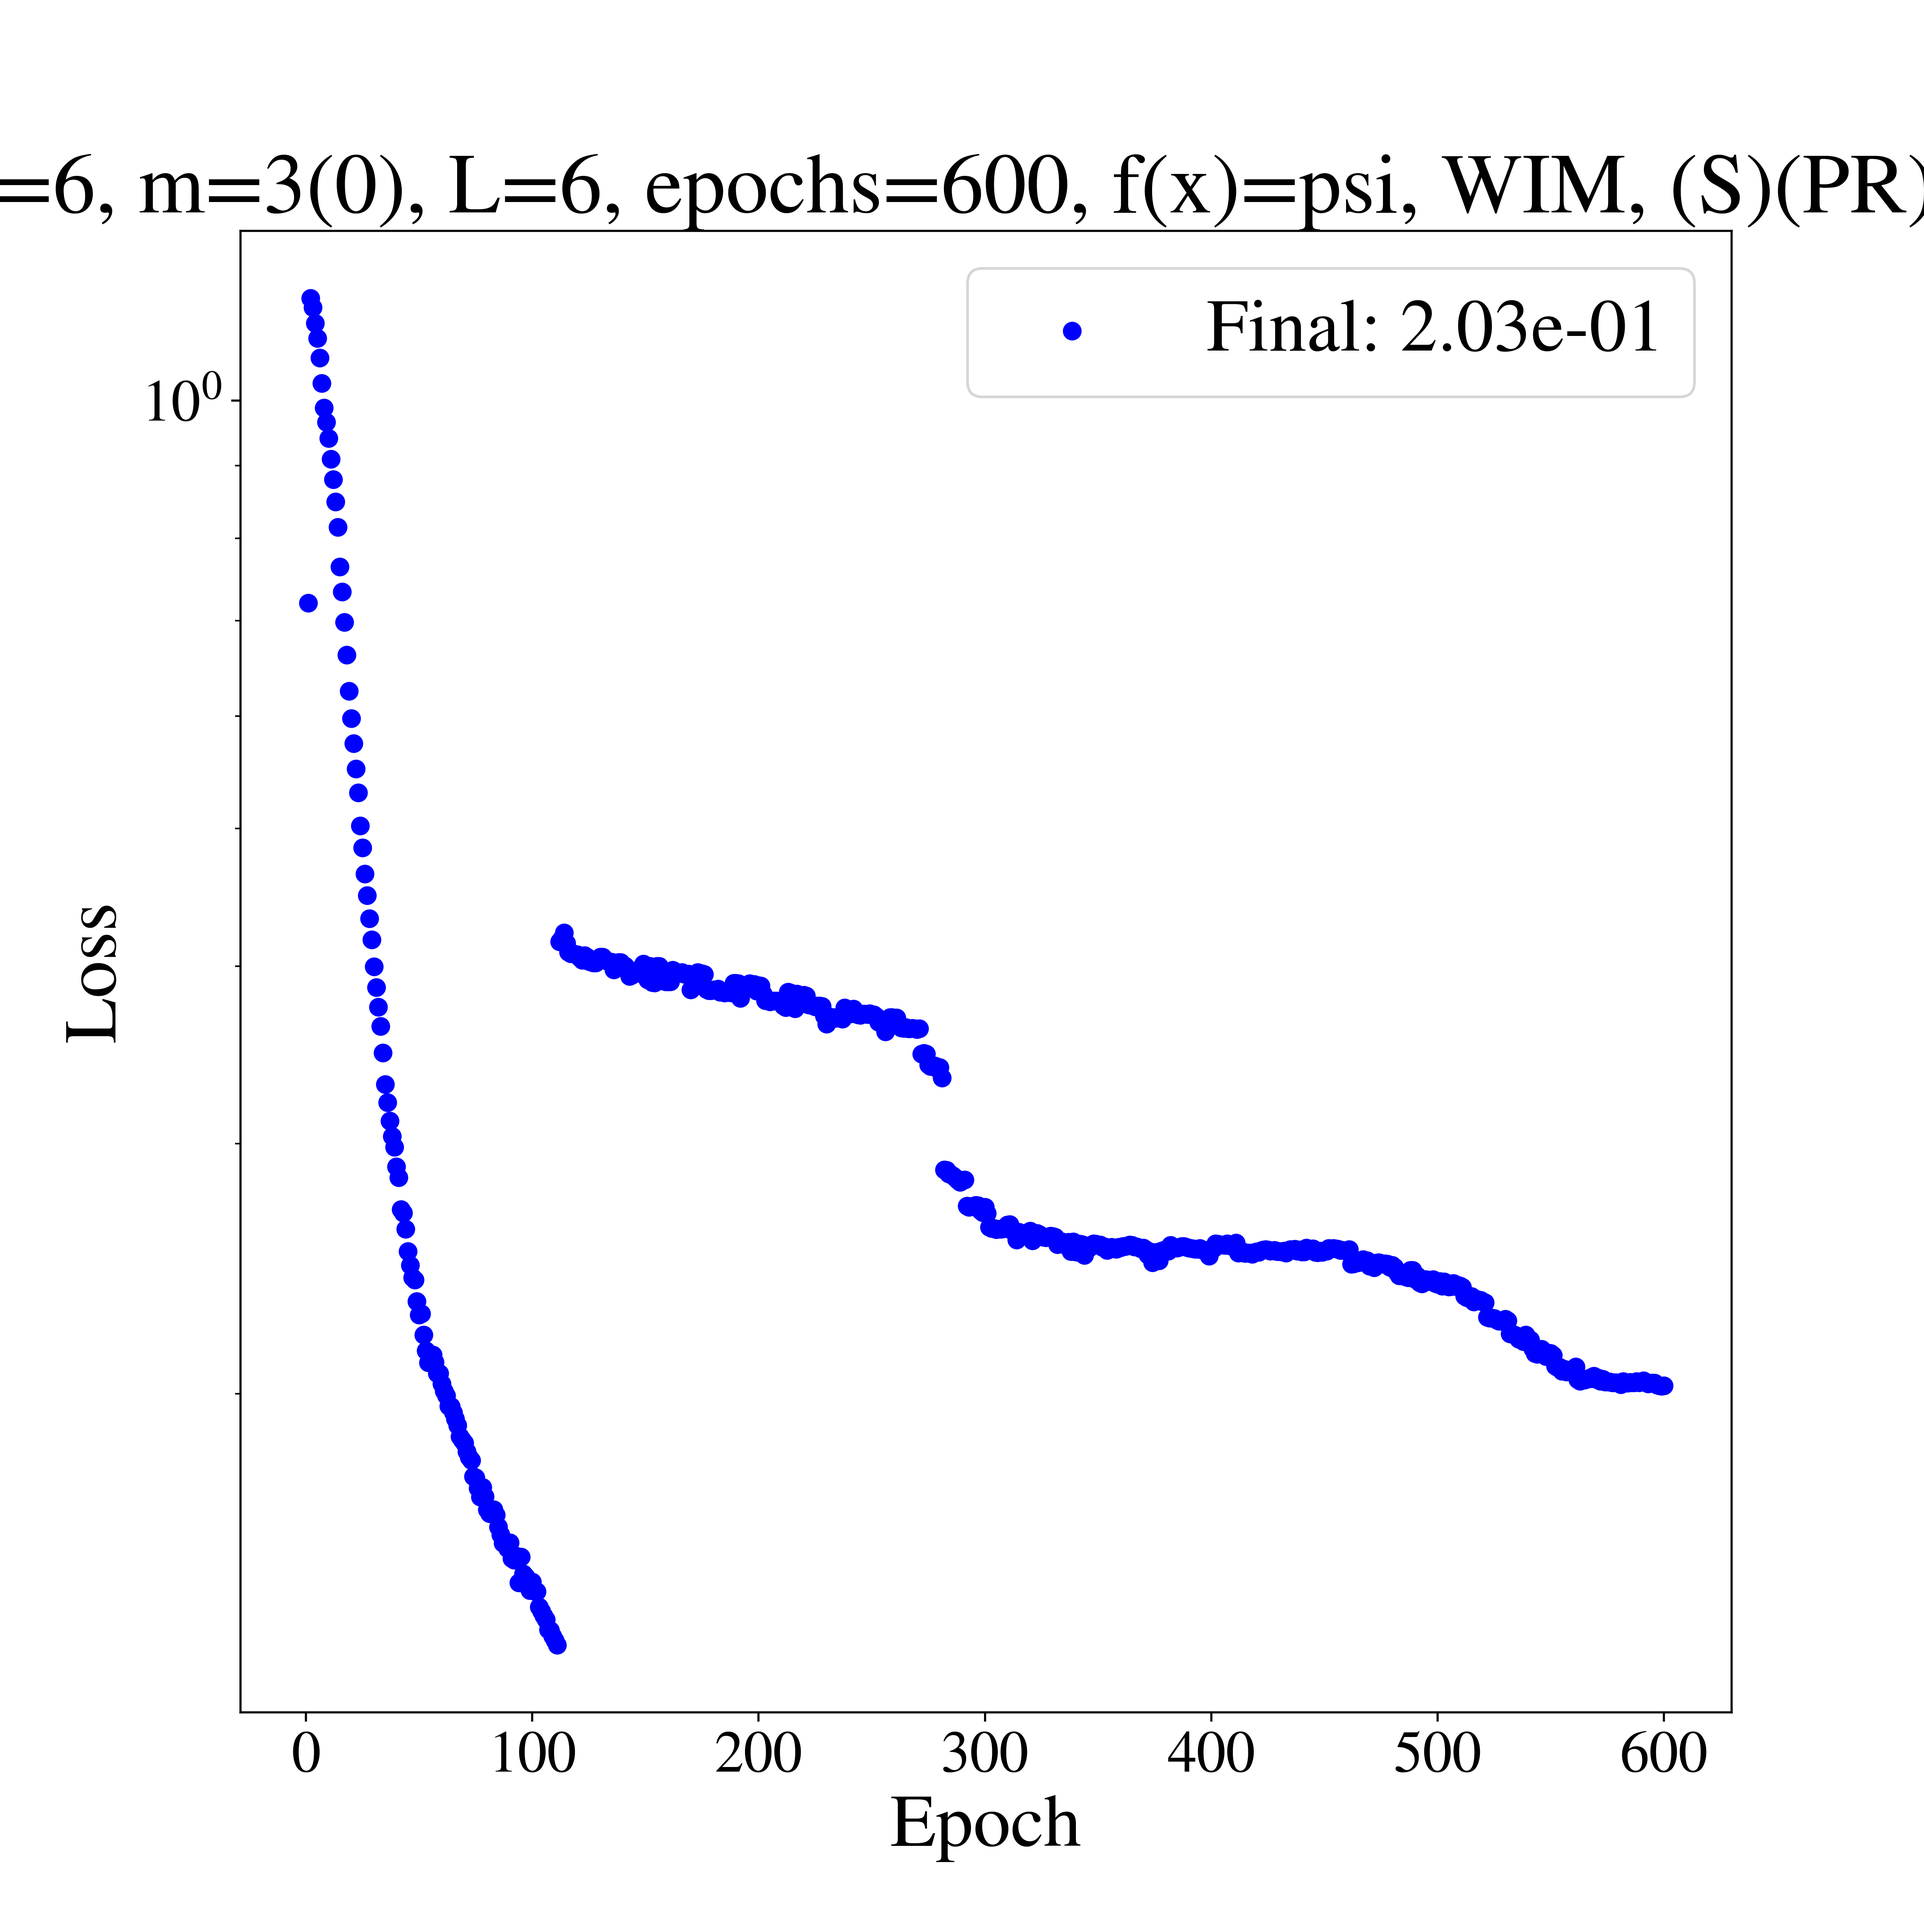
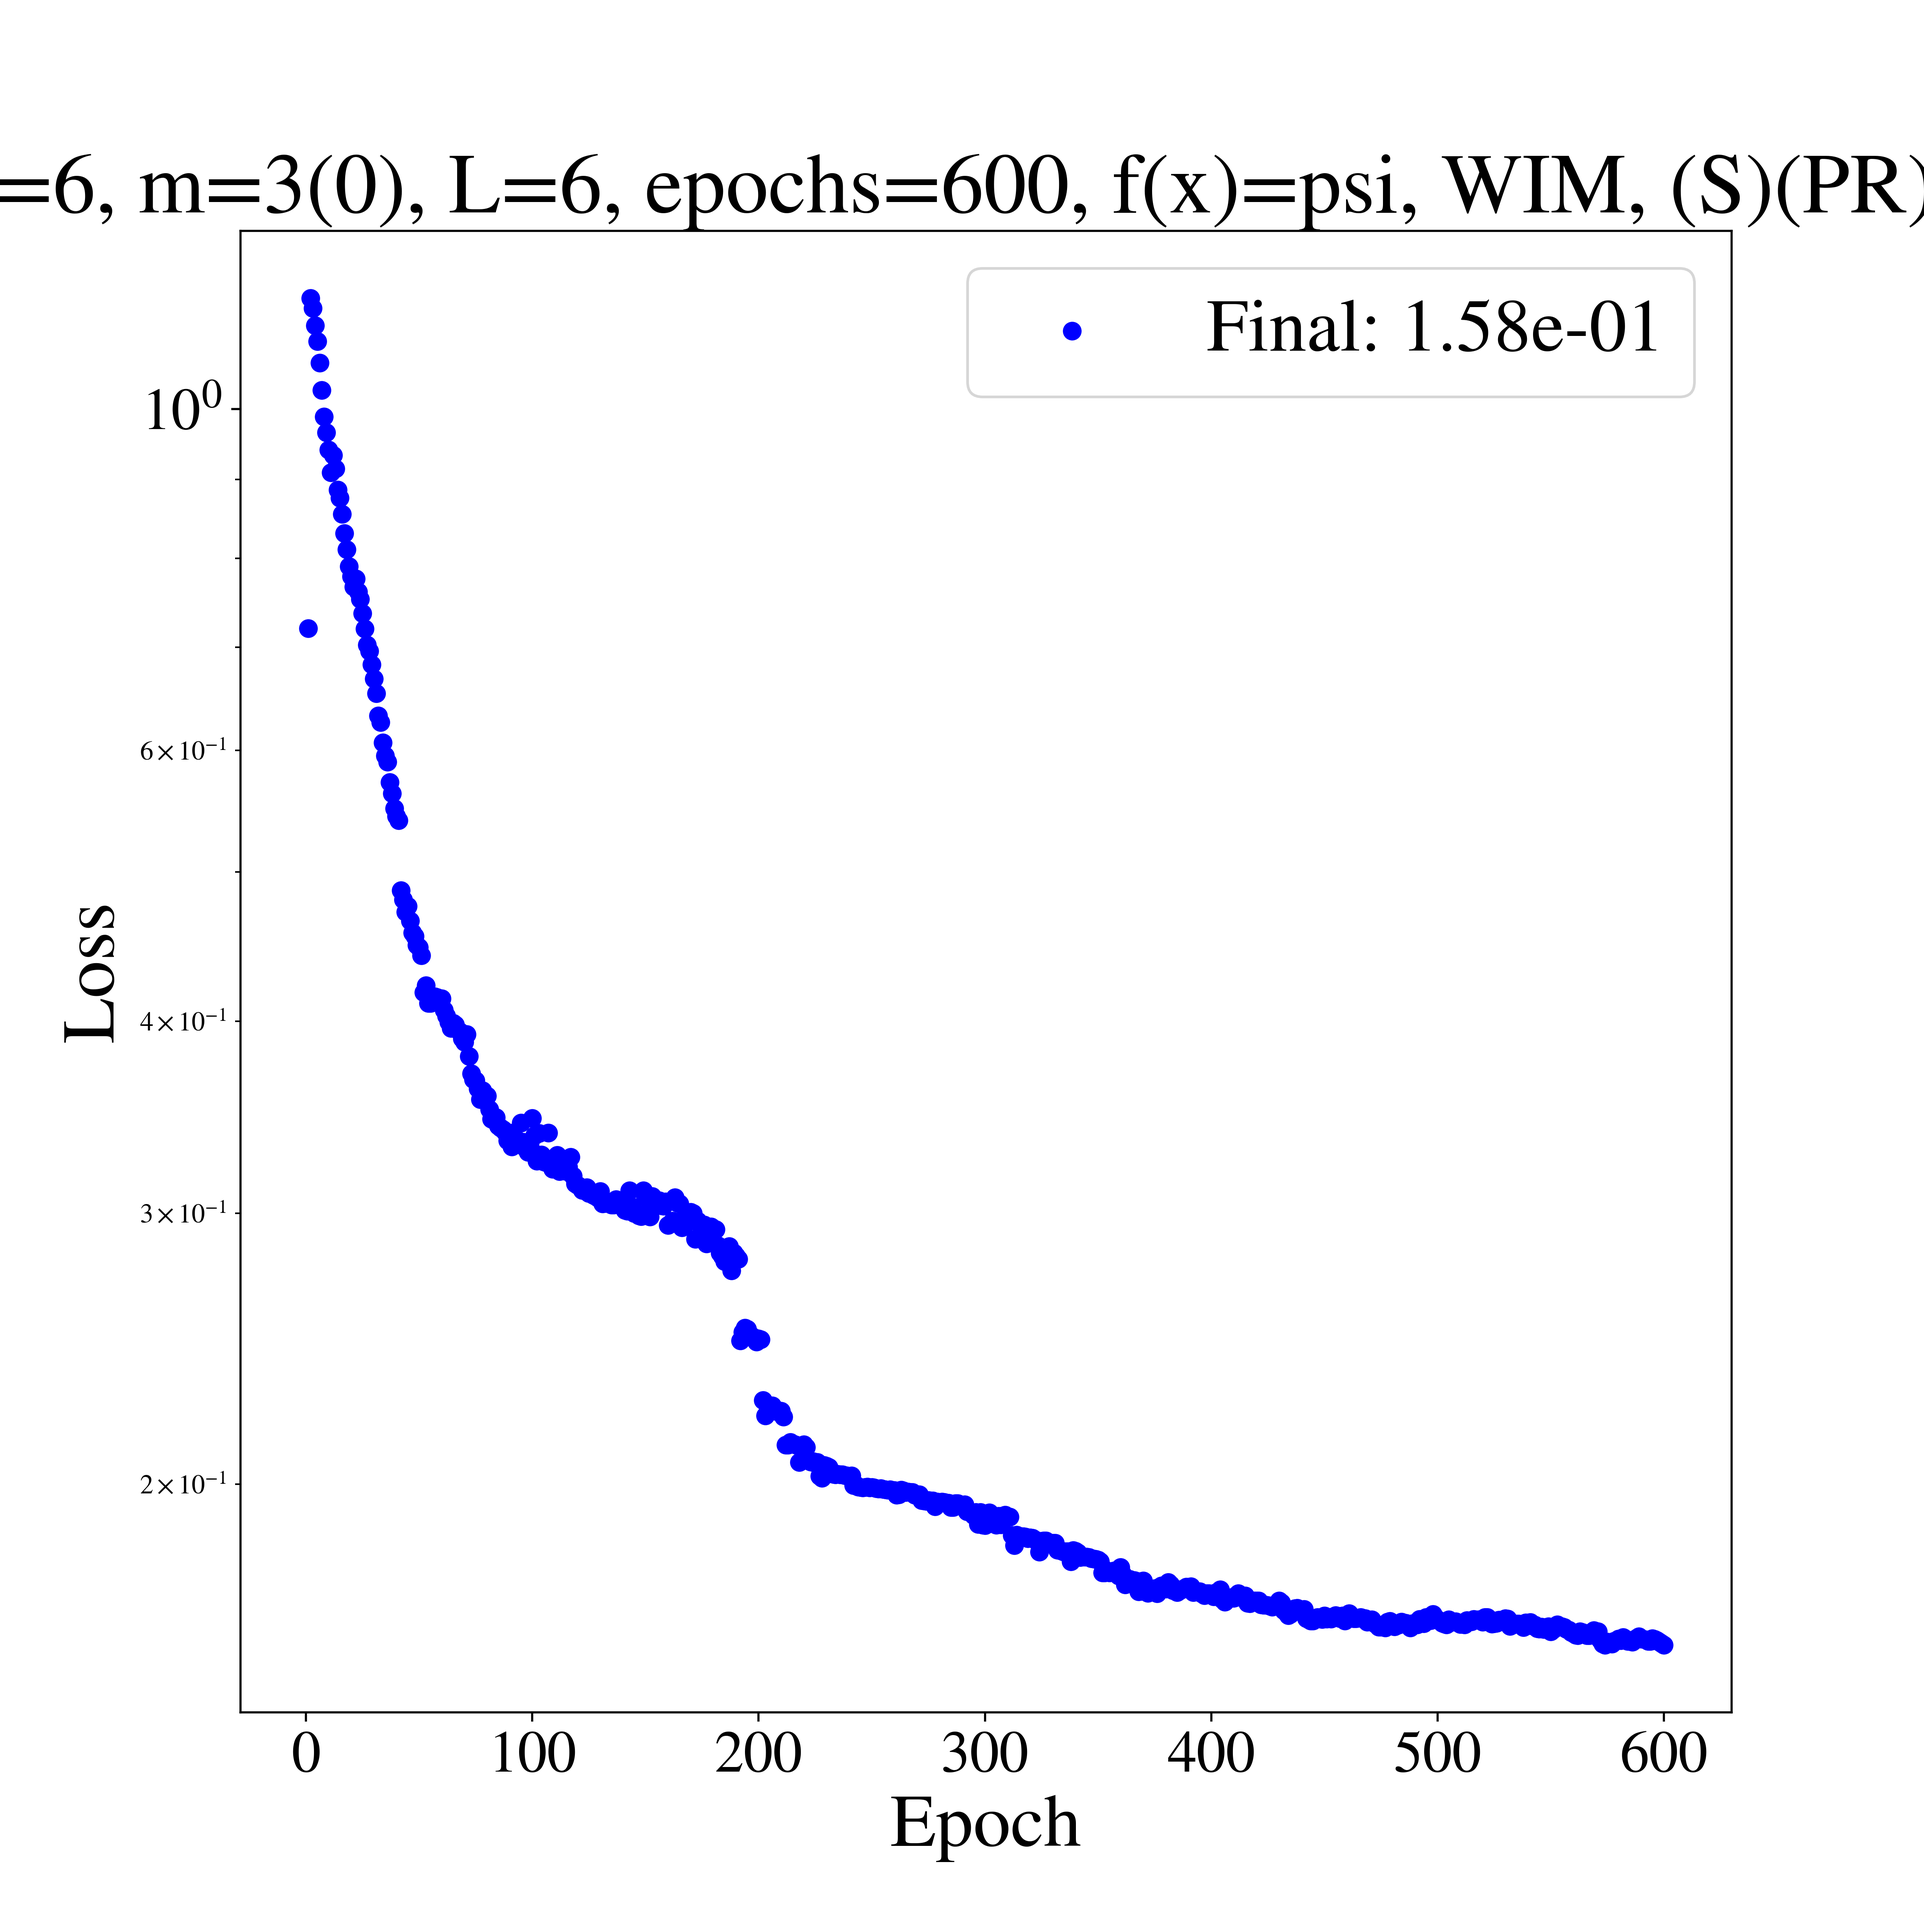
psi to linear for tests

diff --git a/tools.py b/tools.py
@@ -1076,8 +1076,8 @@ def psi(x):
 
     #out = np.pi /2 *(1+ np.sin(x /4 )) 
     #out = 0.0001* x**2 # change this back later 
-    #out = 0.5 + 0.01*x 
-    out = (((3./128))*((np.pi*Mc*x)**(-5./3))*( 1.+ (20./9)*((743./336)+(11./4)*eta)*(np.pi*Mt*x)**(2./3) -4.*(4.*np.pi - beta)*(np.pi*Mt*x) + 10.*((3058673./1016064) + (eta*5429./1008) + (617*(eta**2)/144) - sig)*(np.pi*Mt*x)**(4./3)) + 2.*np.pi*x*DT)/(2.*np.pi)
+    out = 0.5 + 0.01*x 
+    #out = (((3./128))*((np.pi*Mc*x)**(-5./3))*( 1.+ (20./9)*((743./336)+(11./4)*eta)*(np.pi*Mt*x)**(2./3) -4.*(4.*np.pi - beta)*(np.pi*Mt*x) + 10.*((3058673./1016064) + (eta*5429./1008) + (617*(eta**2)/144) - sig)*(np.pi*Mt*x)**(4./3)) + 2.*np.pi*x*DT)/(2.*np.pi)
     return out
 
 def A_generate_network(n,L):
